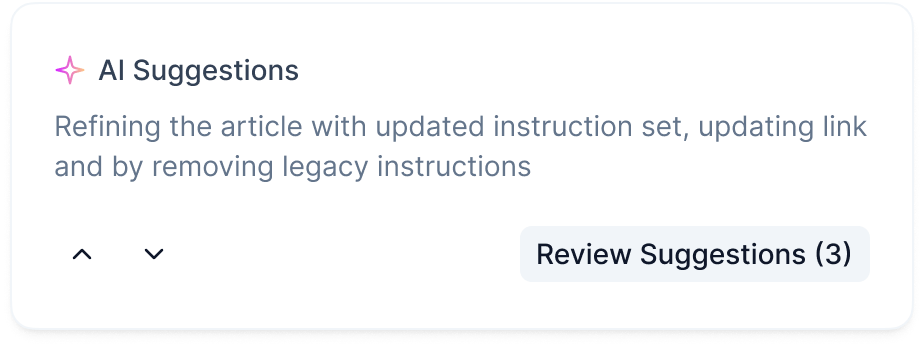
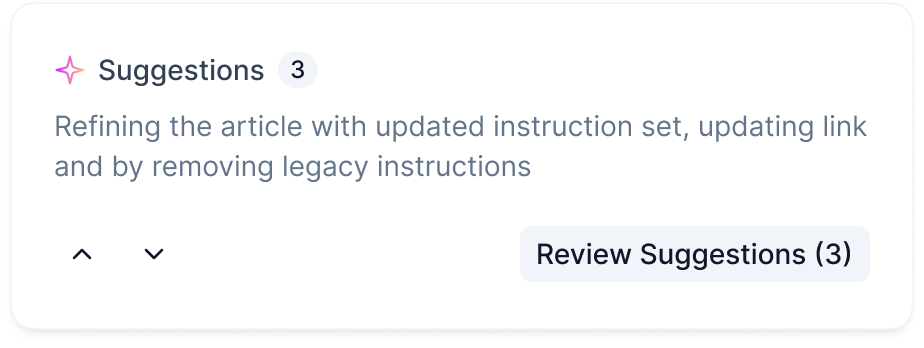
feat(kb-ui): Phase 15c.1+15c.6a — AISuggestionsCard Terminal story + CTA bg fix
- Wire Terminal review story (figmaNode 141:1322) alongside existing Playground.
- Replace inline dark-bg "Review Suggestions" CTA with Button primitive subtle variant — matches Figma 74:9436 (#f1f5f9 bg, dark text, rounded-6).

Changed region(s): [[0.0909, 0.1724, 0.3333, 0.2586]]

diff --git a/packages/kb-ui/src/components/content/AISuggestionsCard.review.stories.tsx b/packages/kb-ui/src/components/content/AISuggestionsCard.review.stories.tsx
@@ -3,7 +3,9 @@ import '../../tokens.css';
 import { AISuggestionsCard } from './AISuggestionsCard';
 import { FigmaCompare } from '../../_review/FigmaCompare';
 import aiSuggestionsCardFigma from '../../../../../design/screenshots/ai-suggestions-card-pre-review.png';
+import aiSuggestionsCardTerminalFigma from '../../../../../design/screenshots/ai-suggestions-card-terminal.png';
 import { figmaNode } from './AISuggestionsCard.figma';
+import { figmaNode as figmaNodeTerminal } from './AISuggestionsCard.terminal.figma';
 
 const meta: Meta<typeof AISuggestionsCard> = {
   title: 'Review/Content/AISuggestionsCard',
@@ -42,6 +44,38 @@ function AISuggestionsCardReview() {
   );
 }
 
+function AISuggestionsCardTerminalReview() {
+  return (
+    <FigmaCompare
+      storyKey="content-ai-suggestions-card-terminal"
+      figmaImage={aiSuggestionsCardTerminalFigma}
+      componentLabel="AISuggestionsCard"
+      frameLabel="Figma · AI Suggestions / Terminal"
+      figmaNodeUrl={`https://www.figma.com/design/${figmaNodeTerminal.fileKey}/?node-id=${figmaNodeTerminal.nodeId.replace(':', '-')}`}
+    >
+      <div
+        className="font-sans"
+        style={{
+          width: 452,
+          height: 164,
+        }}
+      >
+        <AISuggestionsCard
+          mode="terminal"
+          count={3}
+          summary="Refining the article with updated instruction set, updating link and by removing legacy instructions"
+          onPrev={() => {}}
+          onNext={() => {}}
+        />
+      </div>
+    </FigmaCompare>
+  );
+}
+
 export const Playground: StoryObj<typeof AISuggestionsCard> = {
   render: () => <AISuggestionsCardReview />,
+};
+
+export const Terminal: StoryObj<typeof AISuggestionsCard> = {
+  render: () => <AISuggestionsCardTerminalReview />,
 };

diff --git a/packages/kb-ui/src/components/content/AISuggestionsCard.tsx b/packages/kb-ui/src/components/content/AISuggestionsCard.tsx
@@ -5,6 +5,7 @@ import * as React from 'react';
 import { RiCheckLine } from '@remixicon/react';
 import { cn } from '../../utils/cn';
 import { AiIcon } from '../brand/AiIcon';
+import { Button } from '../primitives/Button';
 import { AICard } from './AICard';
 import { NavArrow } from './NavArrow';
 
@@ -115,18 +116,9 @@ export function AISuggestionsCard({
           ) : cta !== undefined ? (
             cta
           ) : (
-            <button
-              type="button"
-              onClick={onReview}
-              className={cn(
-                'inline-flex items-center justify-center rounded-[8px] bg-[#0f172a] px-3 py-2',
-                'text-[14px] font-medium leading-[20px] text-white',
-                'transition-colors hover:bg-[#1e293b]',
-                'focus:outline-none focus-visible:ring-2 focus-visible:ring-black/20',
-              )}
-            >
+            <Button variant="subtle" onClick={onReview}>
               Review Suggestions ({count})
-            </button>
+            </Button>
           )}
         </>
       }

diff --git a/packages/kb-ui/src/components/content/AISuggestionsCard.terminal.figma.ts b/packages/kb-ui/src/components/content/AISuggestionsCard.terminal.figma.ts
@@ -1,0 +1,5 @@
+export const figmaNode = {
+  fileKey: '9aGp5t9fH1d0PXi4LMhOdb',
+  nodeId: '141:1322',
+  screenshotName: 'ai-suggestions-card-terminal',
+} as const;
